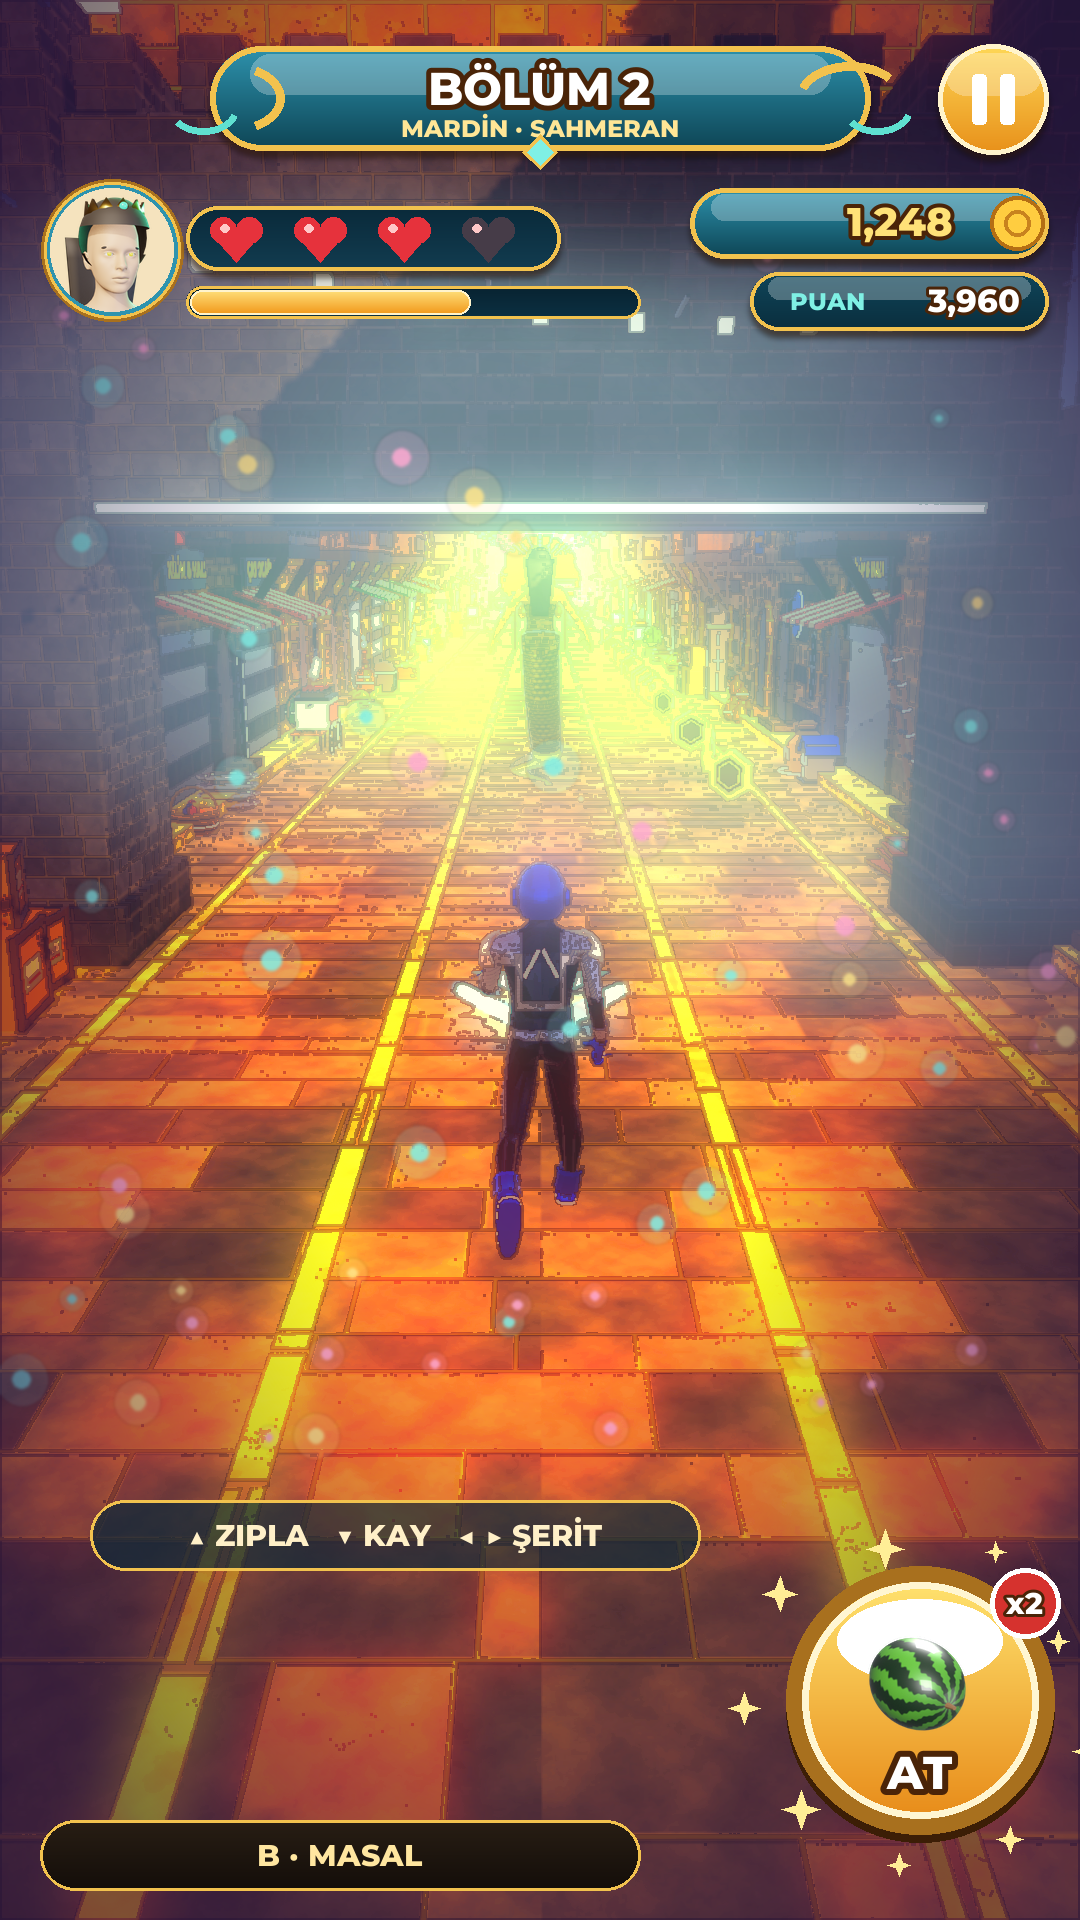
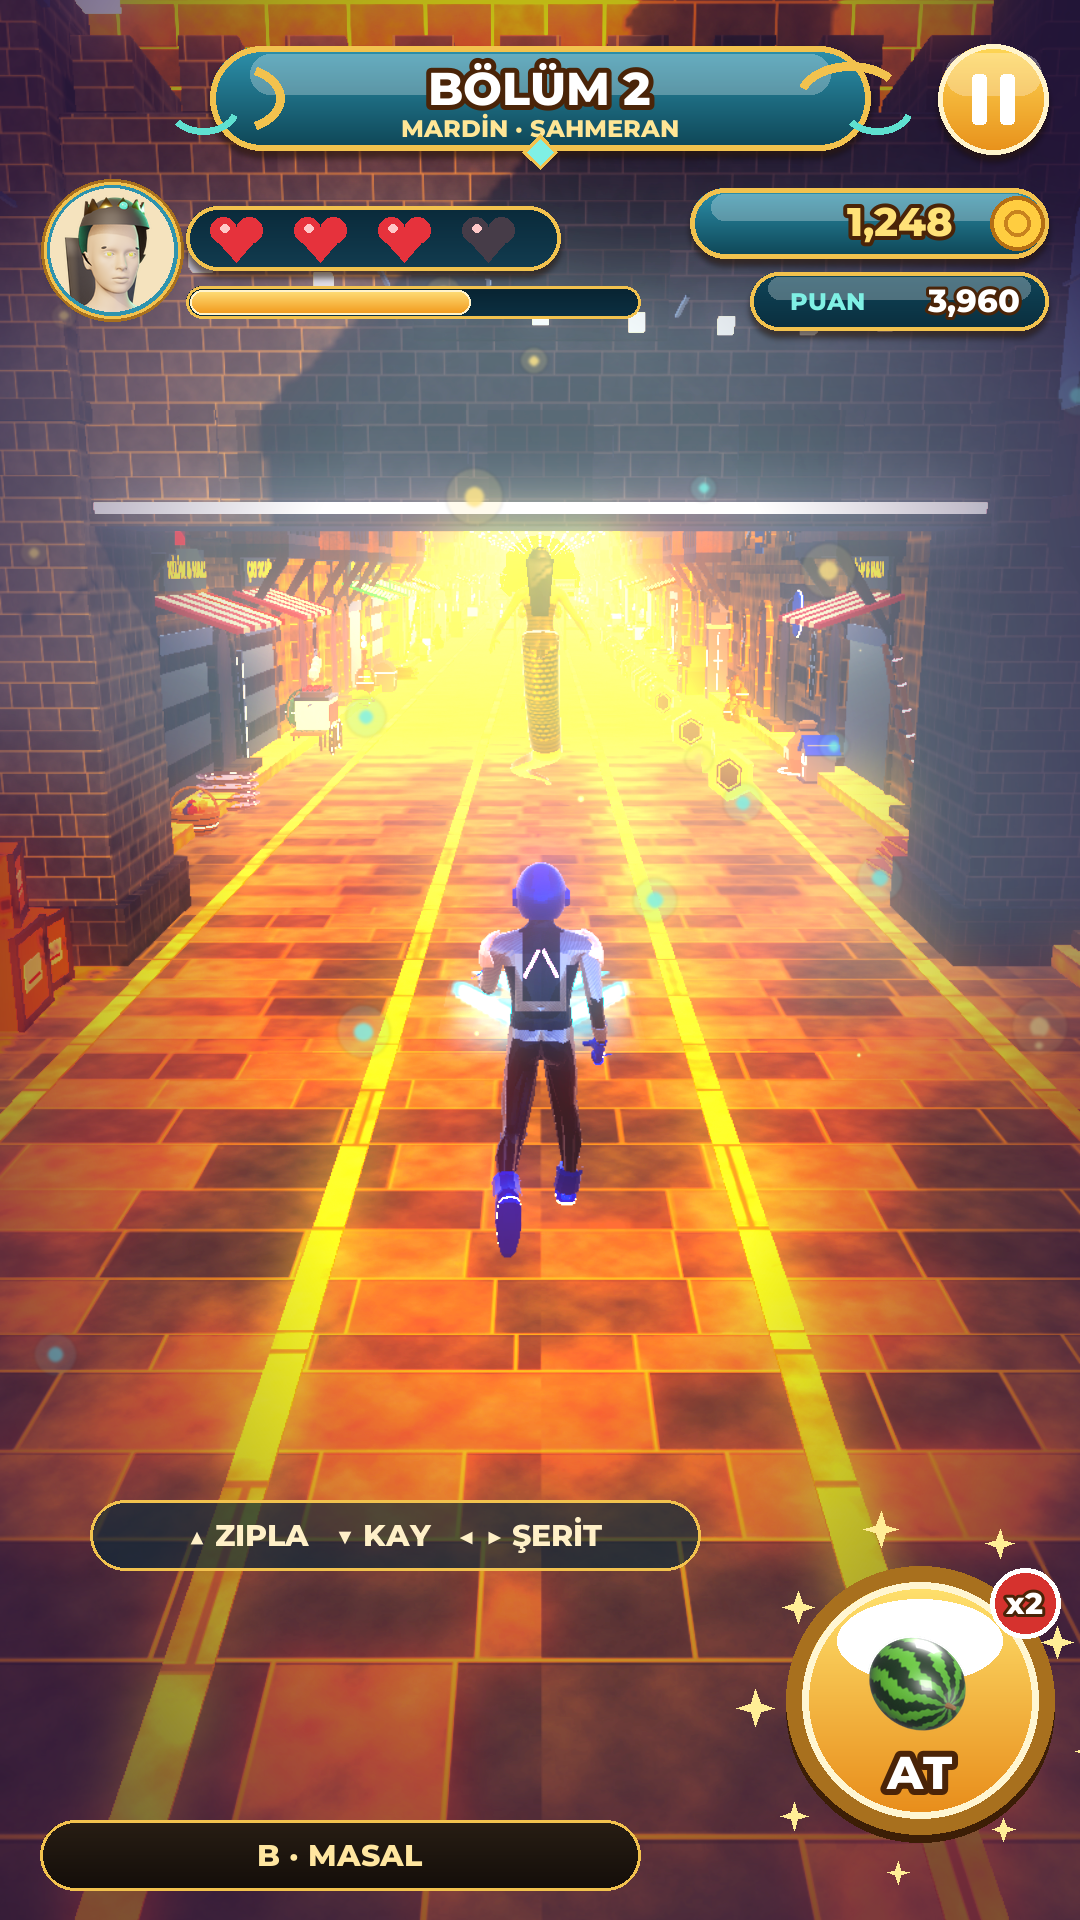
Tema önizlemesi: B çizgi film etkisi kaldırıldı, ışık zerresi 60 -> 18; yeni C Gece-Fener Işığı; ingame_ABC

diff --git a/Tools/make_concept.py b/Tools/make_concept.py
@@ -262,17 +262,30 @@ if __name__ == "__main__":
     # B: Masal
     src2 = Image.open(os.path.join(SRC, "concept_lv2.png")).convert("RGB").resize((W, H))
     b = grade(src2, shadow=(90, 70, 170), highlight=(255, 190, 110), lift=0.09, sat=1.5, bright=1.55)
-    b = posterize_soft(b)
-    b = toon_edges(b)
-    b = mist(b, (170, 220, 230), 300, 900, 120)
-    b = bloom(b, 160, 30, 0.7)
-    b = motes(b, 60, [(255, 230, 140), (130, 240, 230), (255, 170, 210)])
+    # çizgi film yok (kontur/posterize kaldırıldı); daha az ışık zerresi
+    b = mist(b, (170, 220, 230), 300, 900, 90)
+    b = bloom(b, 165, 28, 0.6)
+    b = motes(b, 18, [(255, 230, 140), (130, 240, 230)])
     b = vignette(b, (40, 20, 70), 0.6)
     b = hud(b, os.path.join(PORTRAITS, "sahmeran.png"), "BÖLÜM 2", "MARDİN · ŞAHMERAN")
     b = label(b, "B · MASAL")
     b.save(os.path.join(OUT, "ingame_B.png"))
-    ab = Image.new("RGB", (W * 2 + 40, H), (12, 30, 40))
-    ab.paste(a, (0, 0))
-    ab.paste(b, (W + 40, 0))
-    ab.resize(((W * 2 + 40) // 2, H // 2), Image.LANCZOS).save(os.path.join(OUT, "ingame_AB.png"))
+    # C: Gece — Fener Işığı (ay ışığı mavisi + sıcak fener parıltısı, sinematik)
+    src3 = Image.open(os.path.join(SRC, "concept_lv1.png")).convert("RGB").resize((W, H))
+    cimg = grade(src3, shadow=(40, 70, 150), highlight=(255, 170, 80), lift=0.03, sat=1.15, bright=1.2)
+    arr = np.asarray(cimg).astype(np.float32)
+    lum = arr.mean(axis=2, keepdims=True) / 255.0
+    night = np.array([22, 40, 90], dtype=np.float32)
+    arr = arr * (0.45 + 0.75 * np.clip(lum * 1.6, 0, 1)) + night * (1 - np.clip(lum * 2.2, 0, 1)) * 0.6   # karanlık maviye, ışıklar korunur
+    cimg = Image.fromarray(np.clip(arr, 0, 255).astype(np.uint8))
+    cimg = bloom(cimg, 150, 34, 0.9)            # fener/dükkân ışıkları parlasın
+    cimg = mist(cimg, (60, 90, 150), 420, 980, 70)
+    cimg = vignette(cimg, (6, 10, 30), 0.65)
+    cimg = hud(cimg, os.path.join(PORTRAITS, "tepegoz.png"), "BÖLÜM 1", "DİYARBAKIR · TEPEGÖZ")
+    cimg = label(cimg, "C · GECE — FENER IŞIĞI")
+    cimg.save(os.path.join(OUT, "ingame_C.png"))
+    ab = Image.new("RGB", (W * 3 + 80, H), (12, 30, 40))
+    for k, im in enumerate((a, b, cimg)):
+        ab.paste(im, (k * (W + 40), 0))
+    ab.resize(((W * 3 + 80) // 2, H // 2), Image.LANCZOS).save(os.path.join(OUT, "ingame_ABC.png"))
     print("CONCEPT_OK")
